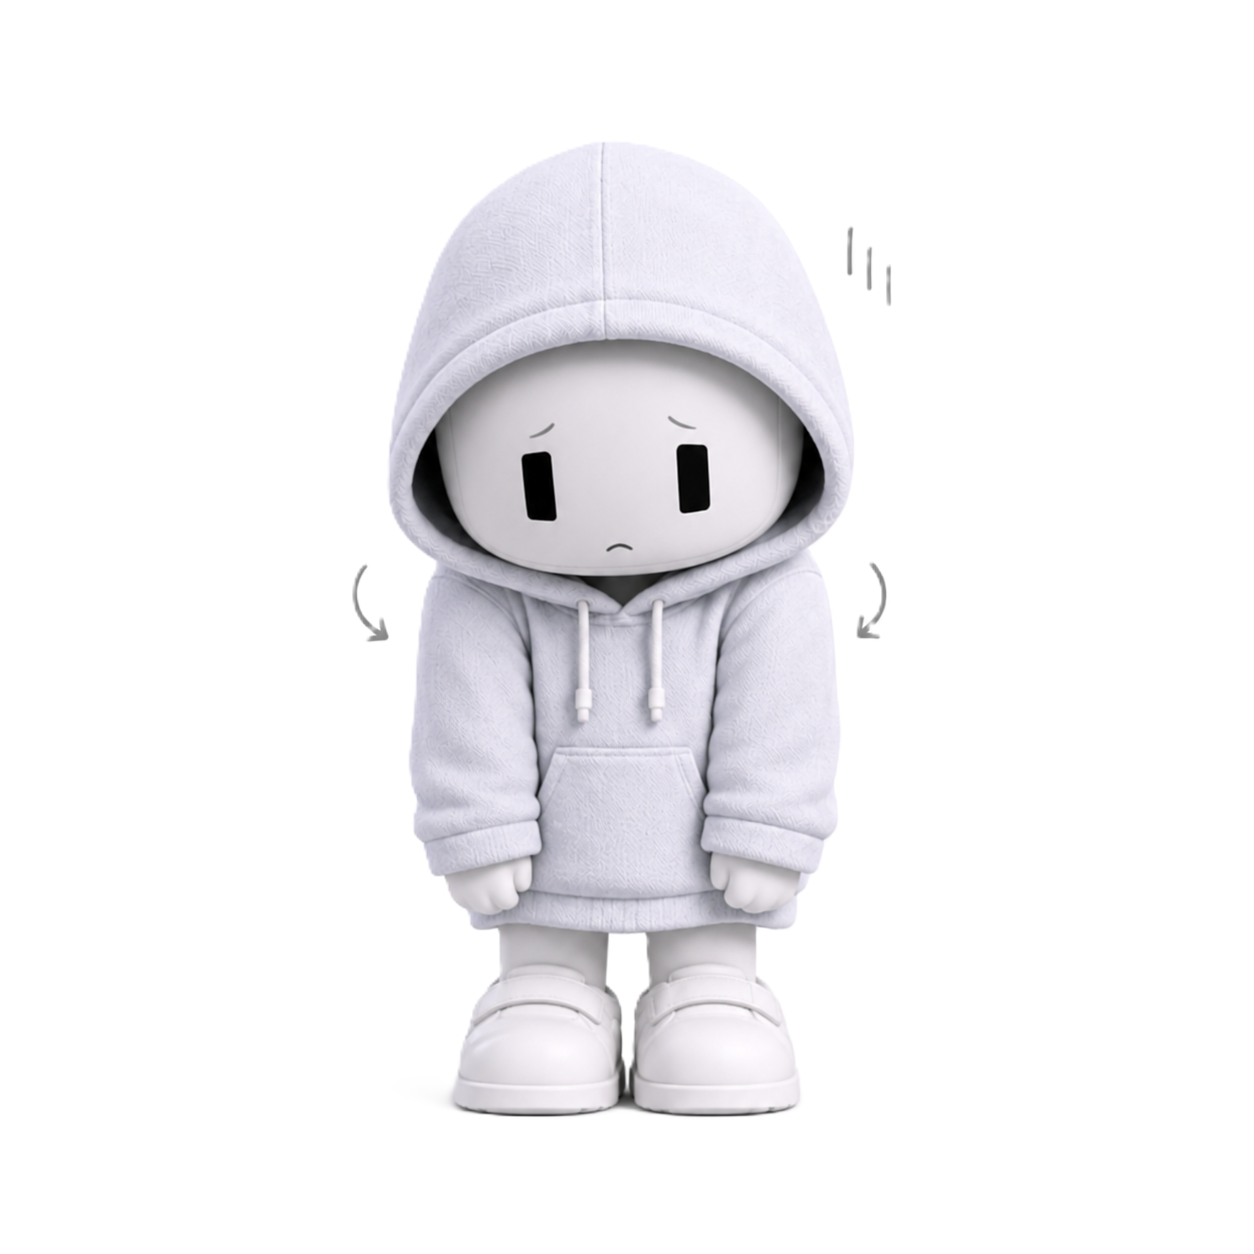
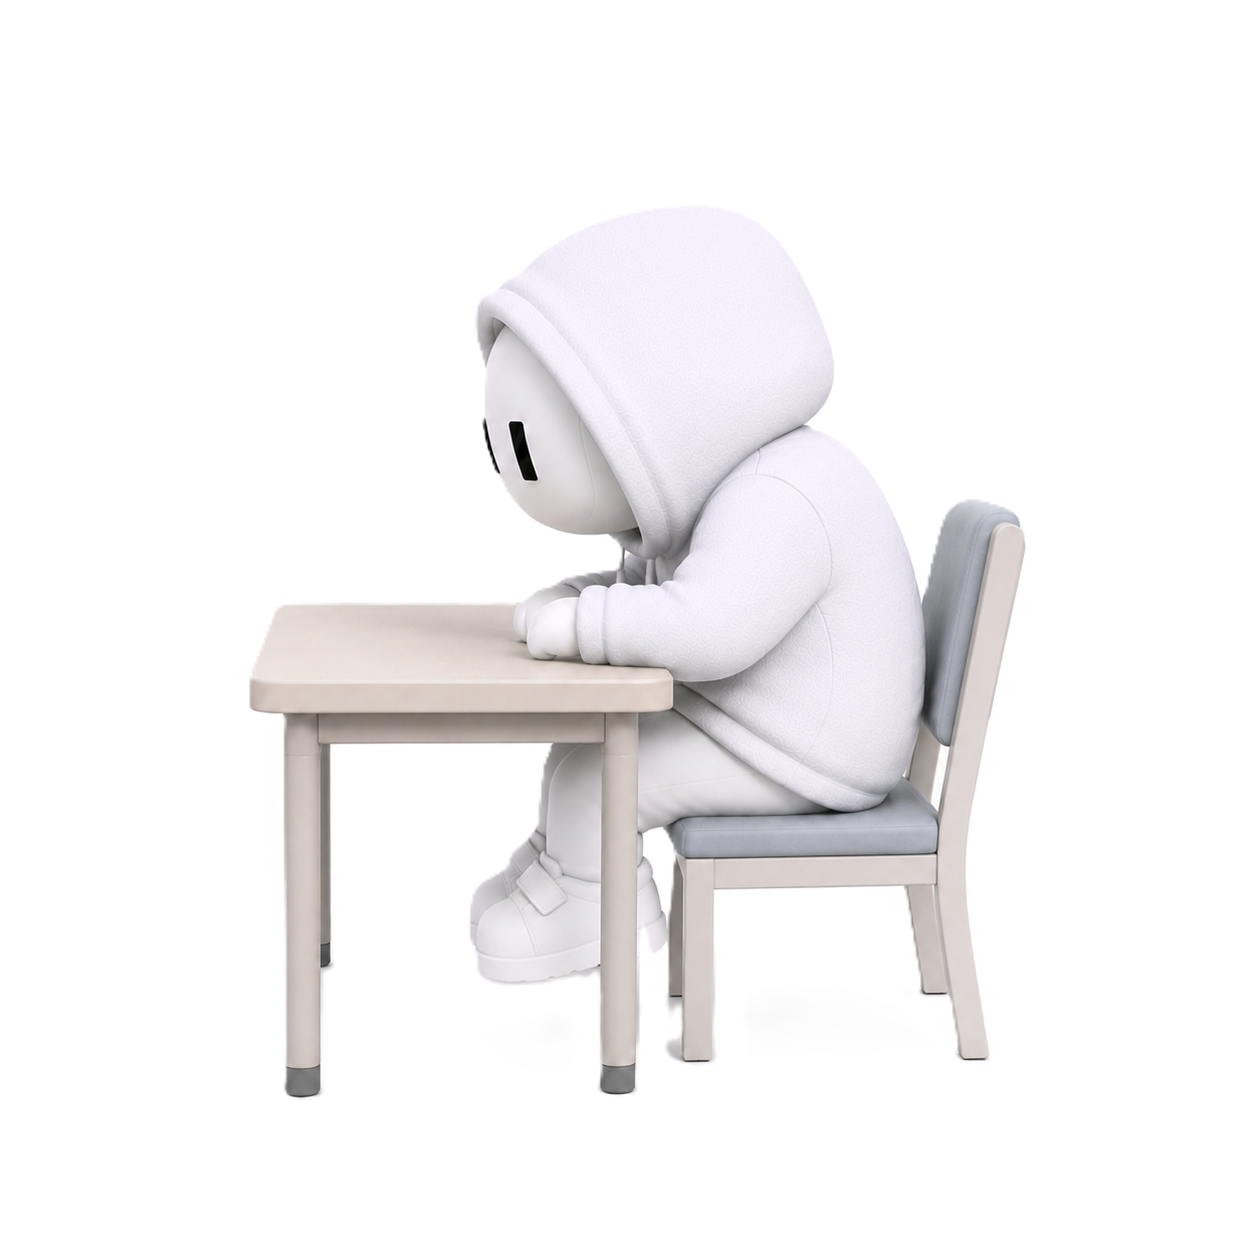
Use new posture alert assets

Changed region(s): [[0.1866, 0.1244, 0.8397, 0.9019], [0.6531, 0.1866, 0.7153, 0.2488]]

diff --git a/anjava-extend/background.ts b/anjava-extend/background.ts
@@ -137,6 +137,7 @@ function bytesToBase64(bytes: Uint8Array): string {
 function getPostureNotificationAsset(state?: unknown): string {
   const normalized = typeof state === "string" ? state.trim().toUpperCase() : ""
   if (normalized === "TURTLE_NECK") return "assets/turtleneck.png"
+  if (normalized === "SLOUCH" || normalized === "SLOUCHING") return "assets/slouch.png"
   if (normalized === "ROUND_SHOULDER" || normalized === "SHOULDER_ISSUE") return "assets/round-shoulder.png"
   if (normalized === "SHOULDER_ASYMMETRY") return "assets/shoulder-notsame.png"
   return "assets/avatar.png"

diff --git a/anjava/app/lib/fcm.ts b/anjava/app/lib/fcm.ts
@@ -195,6 +195,7 @@ function playAlertTone(soundEnabled: boolean) {
 function getPostureNotificationIcon(state: string) {
   const normalized = state.trim().toUpperCase();
   if (normalized === "TURTLE_NECK") return "/turtleneck.png";
+  if (normalized === "SLOUCH" || normalized === "SLOUCHING") return "/slouch.png";
   if (normalized === "ROUND_SHOULDER" || normalized === "SHOULDER_ISSUE") return "/round-shoulder.png";
   if (normalized === "SHOULDER_ASYMMETRY") return "/shoulder-notsame.png";
   return "/avatar.png";

diff --git a/anjava/app/components/WebcamView.tsx b/anjava/app/components/WebcamView.tsx
@@ -283,8 +283,8 @@ const BACKEND_STATE_MESSAGES: Partial<Record<DetectionState, string>> = {
 
 const POSTURE_IMAGE_BY_STATE: Partial<Record<DetectionState, string>> = {
   TURTLE_NECK: "/turtleneck.png",
-  SLOUCHING: "/avatar.png",
-  SLOUCH: "/avatar.png",
+  SLOUCHING: "/slouch.png",
+  SLOUCH: "/slouch.png",
   ROUND_SHOULDER: "/round-shoulder.png",
   SHOULDER_ISSUE: "/round-shoulder.png",
   SHOULDER_ASYMMETRY: "/shoulder-notsame.png",

diff --git a/anjava-extend/contents/posture-toast.ts b/anjava-extend/contents/posture-toast.ts
@@ -31,6 +31,8 @@ const TOAST_MESSAGES: Record<string, string> = {
 
 const POSTURE_IMAGE_BY_STATE: Record<string, string> = {
   TURTLE_NECK: "assets/turtleneck.png",
+  SLOUCH: "assets/slouch.png",
+  SLOUCHING: "assets/slouch.png",
   ROUND_SHOULDER: "assets/round-shoulder.png",
   SHOULDER_ISSUE: "assets/round-shoulder.png",
   SHOULDER_ASYMMETRY: "assets/shoulder-notsame.png"
